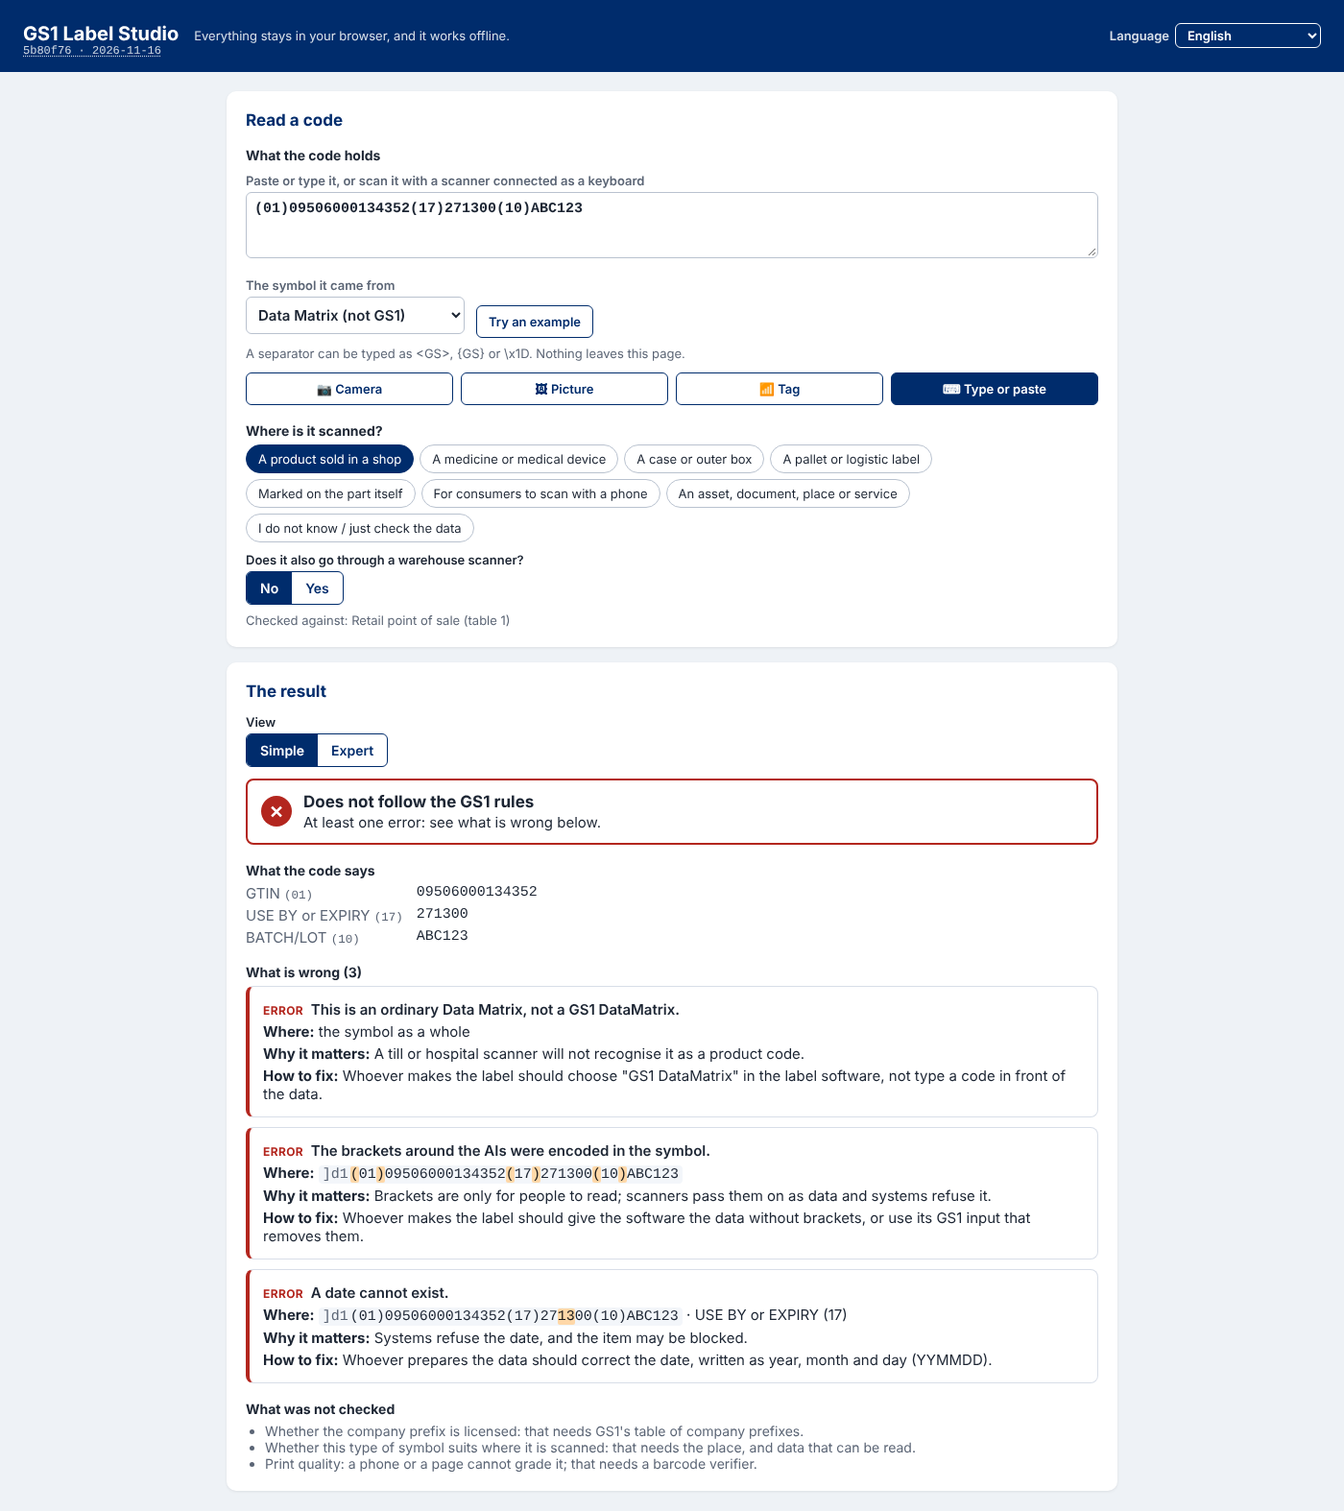
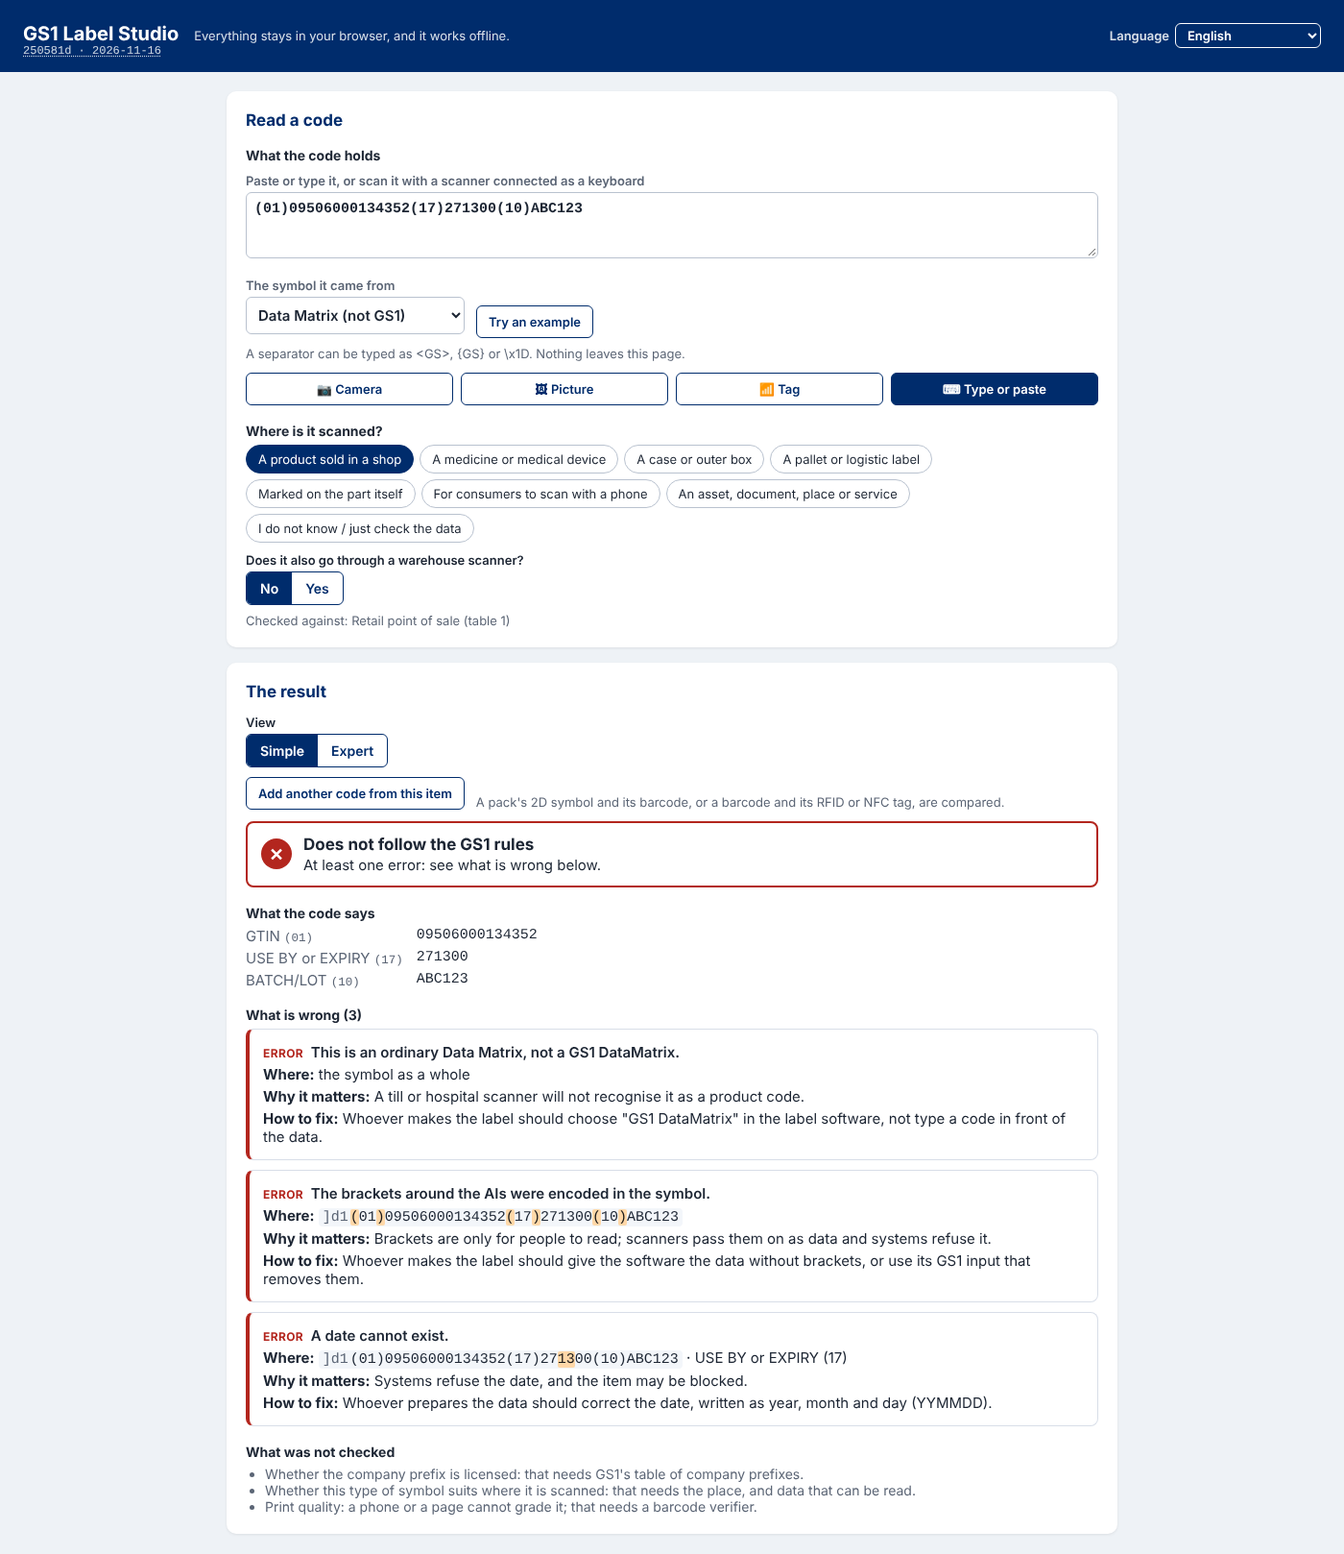
docs: the Check Studio's group in features, the user guide, ADR 0007, the backlog and the inventory (2,701 tests)
ADR 0007 decision 15 records how the next reading joins a group, the same code joining once, the kind guessed
until named, and the matrix as a card per detail on a phone (mock-up B of two). The user guide's step 10 and
check-group.png show the project's example 5.3; check.png, check-expert.png and check-picture.png gain the new
buttons.

Claude-Session: https://claude.ai/code/session_01AV1osqNtm8B74d9X8qxne4

diff --git a/apps/web/screenshots/guide.spec.ts b/apps/web/screenshots/guide.spec.ts
@@ -67,6 +67,22 @@ test("the Check Studio: a picture of three symbols, outlined and numbered", asyn
   await shot(studio.locator(".check-input"), "check-picture");
 });
 
+test("the Check Studio: the codes of one item, the matrix and a group fault", async ({ page }) => {
+  await page.goto("/#/check");
+  const studio = page.getByRole("main", { name: "Check Studio" });
+  await studio.getByRole("button", { name: "Type or paste", exact: true }).click();
+  await studio.getByRole("textbox").fill("]d201095060001343521727123110ABC123\u001d2100417");
+  await studio.getByRole("button", { name: "Add another code from this item" }).click();
+  await studio.getByRole("textbox").fill("]E09506000134352");
+  await studio.getByRole("button", { name: "Add this code to the item" }).click();
+  await studio.locator(".check-group").getByRole("button", { name: "Add another code from this item" }).click();
+  await studio.getByRole("button", { name: "Tag", exact: true }).click();
+  await studio.getByLabel(/Paste the EPC/).fill("30364433400d1ec0000001a1");
+  await studio.getByRole("button", { name: "Add this code to the item" }).click();
+  await expect(studio.locator('.check-group .finding[data-code="J7"]')).toBeVisible();
+  await shot(studio.locator(".check-group"), "check-group");
+});
+
 test("the editor at a glance", async ({ page }) => {
   await shot(page, "editor");
 });

diff --git a/docs/features.md b/docs/features.md
@@ -121,6 +121,7 @@ Which standard each follows: [conformance](conformance.md).
 | The Check Studio's result | Backlog 7.1 f, ADR 0007: at `#/check`, what a code holds pasted or typed (a scanner in keyboard mode), the symbol it came from and where it is scanned (eight places, two with a follow-up question) checked by the core's `check()`; the simple view gives the verdict with an icon and a word, what the code says with the data titles in the user's language, a card per finding (what, where with the code's text highlighted, why it matters, how to fix and who does it; *Make it right* opening the Barcode Studio with the data made right) and what was not checked; the expert view the reading, the bytes in hexadecimal and as text with three copy buttons, the element strings, the other syntaxes, the findings with their codes, sections and the engine's English message beside its translation, the context and the versions; the 77 faults told in plain words in six languages; the editor's Identify card links to the studio with its data | `1555ccc` | `check-result`: the worked example · `check-result`: choosing where the code is scanned · `check-result`: Make it right · `check-result`: the result in Portuguese · `check-result`: the editor's Identify card · `check-studio`: cover every fault · `check-studio`: maps each choice |
 | The Check Studio's camera and pictures | Backlog 7.1 g, ADR 0007 decision 13: three ways in under *Read a code* (Camera, Picture, Type or paste), a touch screen opening on the camera; the camera started on a press, its frames read by ZXing in a worker for their bytes and symbology identifier, the same symbol counted once in three seconds, a tone and a vibration, the stream stopped when the result opens, when the tab is hidden and when the studio is left, a torch and a zoom where the camera offers them, a refused, missing or busy camera said so with a picture offered instead; a picture chosen, taken, dropped or pasted, every symbol found outlined, numbered and coloured by its verdict, one chosen showing its result; no barcode found says what cannot be read here (GS1 DotCode, a Composite's 2D part) and *There is a code here that is not read* gives fault A9; a linear symbol read this way lists its Composite part as not checked | `a5050d7` | `check-camera`: on a touch screen · `check-camera`: the camera reads a code · `check-camera`: the camera stops · `check-camera`: a torch and a zoom · `check-camera`: a refused camera · `check-camera`: a picture of three symbols · `check-camera`: a picture with no barcode · `check-camera`: a picture pasted or dropped · `camera`: name a refused · `camera`: offer a torch · `camera`: counts once · `camera`: keep the decoder's bytes · `camera`: say when a linear symbol |
 | The Check Studio's scanner, NFC tags and EPCs | Backlog 7.1 h, ADR 0007 decision 14: a scanner in keyboard mode told from typing by its rhythm, its scan checked at once and marked as a scanner's, Ctrl+] as the group separator; the scanner's three faults named rather than blamed on the code: no symbology identifier sent (the symbol asked, and how to switch on AIM ID), the separator lost (the B3 card says the code may lack it or the scanner may drop it, with the set-up), another keyboard layout (AZERTY, QWERTZ, ABNT2, Spanish, Italian undone and offered: *Use this*); a fourth way in, *Tag*: an NFC tag read with Web NFC on Android and its every record listed, I3 and group G applied; without Web NFC what works instead said (an iPhone opens the link itself; an .ndef file opened) and no dead button; an RFID tag's EPC pasted or typed, a classic EPC read with the application's EPC tables, its key, serial and GS1 Digital Link URI shown | `fdce310` | `check-scan`: a scan with ]d2 · `check-scan`: a scan without its identifier · `check-scan`: Ctrl+] typed by hand · `check-scan`: a lost separator · `check-scan`: a scan typed on another keyboard layout · `check-scan`: an NFC tag held to the phone · `check-scan`: without Web NFC · `check-scan`: a pasted SGTIN-96 · `wedge`: takes keystrokes · `wedge`: is undone character by character · `wedge`: is offered when undoing · `wedge`: gives each record back · `wedge`: makes a message · `ndef`: marks the first record MB |
+| Several codes of one item in the Check Studio | Backlog 7.1 i, ADR 0007 decision 15: after any result, *Add another code from this item*; the next code read joins (by itself from the camera, a picture, an NFC tag or a scanner; on a press when typed or pasted), the same code never twice; every symbol of a picture as one item; the codes listed and numbered, each ticked into the check, left out or removed, the group checked again; the kind of group (consumer pack, case, logistic label, tag with its printed code) guessed until named; the group's verdict, the matrix of one row per detail and one column per code with the cells that differ marked (a card per detail on a phone), a card per group fault with the codes and detail it concerns, and the question whether two GTINs that differ in the indicator are a box and the product inside | `250581d` | `check-matrix`: a picture with an EAN-13 · `check-matrix`: the project's example 5.3 · `check-matrix`: two GTINs that differ · `group`: is guessed from the readings · `group`: is the same carrier · `group`: names the symbol · `group`: numbers the codes · `group`: say what differs |
 
 ## Exports and prepress
 

diff --git a/docs/test-inventory.md b/docs/test-inventory.md
@@ -1,6 +1,6 @@
 # Inventory of features from the tests
 
-Every test of the core's suite, of the web application's unit tests and of the editor's browser tests on 2026-11-16: 2,693 tests in 67 files. Each line is a test's name, a sentence that says what is true when it passes; together they say what the studio does and that it works. Each feature of [features.md](features.md) names the tests that prove it. Generated by `node scripts/inventory.mjs` from a complete run of the core's tests and the list of the browser tests ([ADR 0005](adr/0005-documentation-and-feature-inventory.md)); do not edit by hand.
+Every test of the core's suite, of the web application's unit tests and of the editor's browser tests on 2026-11-16: 2,701 tests in 69 files. Each line is a test's name, a sentence that says what is true when it passes; together they say what the studio does and that it works. Each feature of [features.md](features.md) names the tests that prove it. Generated by `node scripts/inventory.mjs` from a complete run of the core's tests and the list of the browser tests ([ADR 0005](adr/0005-documentation-and-feature-inventory.md)); do not edit by hand.
 
 Every unit test ran and passed in the run that wrote this file, the ZPL printed by Labelary included (`LABELARY=1`), but the documents' own test (`docs`), which checks this file and runs right after it is written. The browser tests are listed by Playwright and run by CI against the built application, on a desktop, a phone and a tablet held horizontally (a test about one layout is skipped in the others).
 
@@ -13,11 +13,11 @@ Every unit test ran and passed in the run that wrote this file, the ZPL printed 
 | [In bulk: rows, the report, sequences, generation](#in-bulk-rows-the-report-sequences-generation) | `batch`, `bulk`, `report`, `sequence`, `table` | 167 |
 | [Printers: the dot grid, profiles, ZPL, TSPL, EPL2, DPL, PPLA and PPLB](#printers-the-dot-grid-profiles-zpl-tspl-epl2-dpl-ppla-and-pplb) | `argox`, `dots`, `labelary`, `printer`, `printlangs`, `zpl` | 257 |
 | [RFID, NFC and digital signatures](#rfid-nfc-and-digital-signatures) | `epc`, `epcPlus`, `ndef`, `sign` | 1,288 |
-| [The Check Studio: a code read to be checked](#the-check-studio-a-code-read-to-be-checked) | `camera`, `check`, `check-group`, `check-studio`, `engine-map`, `faults`, `reading`, `wedge` | 178 |
+| [The Check Studio: a code read to be checked](#the-check-studio-a-code-read-to-be-checked) | `camera`, `check`, `check-group`, `check-studio`, `engine-map`, `faults`, `group`, `reading`, `wedge` | 183 |
 | [The work saved on one's own computer and opened again](#the-work-saved-on-ones-own-computer-and-opened-again) | `lastwork`, `opened`, `work` | 9 |
 | [The interface's languages: English, Brazilian Portuguese, Spanish, French, German, Italian](#the-interfaces-languages-english-brazilian-portuguese-spanish-french-german-italian) | `i18n` | 15 |
 | [The documents](#the-documents) | `docs` | 7 |
-| [The editor in the browser (Playwright, desktop, phone and tablet)](#the-editor-in-the-browser-playwright-desktop-phone-and-tablet) | `routes`, `tour`, `check-camera`, `check-result`, `check-scan`, `editor`, `layouts`, `studios` | 166 |
+| [The editor in the browser (Playwright, desktop, phone and tablet)](#the-editor-in-the-browser-playwright-desktop-phone-and-tablet) | `routes`, `tour`, `check-camera`, `check-matrix`, `check-result`, `check-scan`, `editor`, `layouts`, `studios` | 169 |
 
 ## Input and identification: the Syntax Engine, keys, qualifiers, attributes
 
@@ -2749,6 +2749,16 @@ Every unit test ran and passed in the run that wrote this file, the ZPL printed 
 
 </details>
 
+<details><summary><code>group</code> — 5 tests (<code>apps/web/test/group.test.ts</code>)</summary>
+
+- the kind of group › is guessed from the readings until the user names it
+- a code already in the group › is the same carrier, identifier and bytes
+- a column's name › names the symbol, or the tag and its scheme
+- a column's name › numbers the codes a finding concerns
+- a group finding's details › say what differs in plain words
+
+</details>
+
 <details><summary><code>reading</code> — 34 tests (<code>packages/core/test/reading.test.ts</code>)</summary>
 
 - what ZXing reads of each carrier (docs/conformance.md) › covers every symbology the studio makes
@@ -2897,6 +2907,14 @@ Every unit test ran and passed in the run that wrote this file, the ZPL printed 
 - a picture of three symbols: each outlined and numbered with its verdict, one chosen shows its result
 - a picture with no barcode says what cannot be read; There is a code here gives fault A9
 - a picture pasted or dropped on the studio is read
+
+</details>
+
+<details><summary><code>check-matrix</code> — 3 tests (<code>apps/web/e2e/check-matrix.spec.ts</code>)</summary>
+
+- a picture with an EAN-13 and a GS1 DataMatrix of different GTINs, checked as one item, gives J1; a code left out re-runs the checks
+- the project's example 5.3 built by the camera then a tag shows J7 on the differing cells; removing the tag re-runs the checks
+- two GTINs that differ in the indicator only ask whether one is the box's code, and a scanner's code joins by itself
 
 </details>
 

diff --git a/docs/developer-guide.md b/docs/developer-guide.md
@@ -332,6 +332,7 @@ that say what is true; together they are the [inventory of features](test-invent
 | `check-studio` | The Check Studio's result screen: the 77 faults told in plain words, one sentence each, and the places a code is scanned mapped to scanning environments | 3 |
 | `camera` | The Check Studio's camera and pictures without a camera: a refused, missing or busy camera named, the torch and zoom offered, the same symbol counted once in three seconds, the readings of a frame or a picture, the Composite part said to be left out, the symbols' names, a picture's size | 8 |
 | `wedge` | The Check Studio's scanner in keyboard mode and NFC tags without a screen: a scan told from typing by its rhythm, a keyboard layout's damage undone and offered (AZERTY, QWERTZ, ABNT2, Spanish, Italian), Web NFC's records made an NDEF message again and listed | 8 |
+| `group` | The Check Studio's group without a screen: the kind of group guessed from the readings (a tag, an SSCC, a GS1-128), a code already in the group, a column's name, the codes a finding concerns, what a group finding's details say | 5 |
 | `faults` | The Check Studio's catalogue: the project's 77 codes and no other, each with its severity, four texts and a source; the table of `docs/conformance.md`, 3.2 | 9 |
 | `reading` | The Check Studio's reading record: what ZXing reads of every carrier, measured and held to `docs/conformance.md`; a scanner's text, an NFC tag, an EPC | 34 |
 | `render` | PNG, PDF and zip against the resolver, PDFs drawn by pdftoppm | 20 |
@@ -361,6 +362,7 @@ that say what is true; together they are the [inventory of features](test-invent
 | `check-result` | the Check Studio's result in a browser: the worked example's verdict, cards and expert panels, the place re-running the checks, Make it right, Portuguese, the Identify card's link (Playwright) | 5 |
 | `check-camera` | the Check Studio's camera and pictures in a browser: the camera first on a touch screen, a code read and the camera stopped, hidden and shown, left; torch and zoom; refused and missing; a picture of three symbols outlined and numbered; no barcode and fault A9; pasted and dropped (Playwright, a canvas stream as the camera) | 8 |
 | `check-scan` | the Check Studio's scanner, NFC tags and EPCs in a browser: a scan with ]d2 and a separator, a scan without identifier and AIM ID, Ctrl+] by hand, a lost separator told as the scanner's, another keyboard layout, an NFC tag's records and I3, no Web NFC and an .ndef file, a pasted SGTIN-96 (Playwright, a stand-in NDEFReader) | 8 |
+| `check-matrix` | the Check Studio's group in a browser: a picture's two symbols of different GTINs checked as one item (J1, the cells marked, a code left out, one not joining twice), the project's example 5.3 by the camera then a tag (J7, a column's own result, the tag removed), the indicator question and a scanner's code joining by itself (Playwright, a canvas camera) | 3 |
 | `printlangs` | TSPL, EPL2 and DPL rendered by Labelize and read back; what they refuse | 130 |
 | `argox` | PPLA and PPLB as the DPL and EPL2 files Argox's manual allows, read back; what they refuse | 27 |
 

diff --git a/docs/user-guide.md b/docs/user-guide.md
@@ -75,7 +75,7 @@ another studio.
 
 ![The Check Studio with the worked example: the verdict, what the code says and three cards](images/guide/check.png)
 
-1. Open **Check Studio** on the start page (or `#/check`). Under **Read a code**, three buttons choose how the code
+1. Open **Check Studio** on the start page (or `#/check`). Under **Read a code**, four buttons choose how the code
    comes in: **Camera**, **Picture**, **Tag** and **Type or paste**. A phone or a tablet opens on the camera, a
    computer on the text.
 2. With **Camera**, press **Start the camera** and allow it when the browser asks; point it at the code, which is read
@@ -126,6 +126,22 @@ another studio.
    its translation, the context, and the versions that checked it.
 
 ![The expert view of the same result](images/guide/check-expert.png)
+
+10. To check several codes of one item together (a pack's 2D symbol and its EAN-13, a barcode and its RFID or NFC
+    tag), press **Add another code from this item** under the result, then read the next code in any way: a code read
+    by the camera, a picture, an NFC tag or a scanner joins by itself; a code typed or pasted joins on **Add this code
+    to the item**. A picture or a camera frame with several symbols offers **Check all … as one item**. **The codes of
+    this item** lists them, numbered; untick one to leave it out, or **Remove** it, and the group is checked again.
+    Under **What is this item?** say whether it is a consumer pack, a case, a logistic label or a tag with its printed
+    code (the studio guesses until you choose: the rules differ). The group's verdict comes first, then **What each code
+    says**: one row per detail and one column per code (on a phone, a card per detail), the values that disagree
+    marked; values are compared character by character, though a GTIN-13 padded to 14 digits is the same GTIN. Then a
+    card per group fault, such as different GTINs, an RFID tag whose serial number differs from the barcode's, or a
+    case's 2D symbol missing the GS1-128's data. When two GTINs differ only in their first digit, the studio asks whether
+    one is the box's code and the other the product's: then they are different items, to be checked one at a time.
+    **Its own result** shows one code's result below; **Check codes one at a time** ends the group.
+
+![The codes of one item: a GS1 DataMatrix, its EAN-13 and an RFID tag, the serial numbers marked where they differ](images/guide/check-group.png)
 
 In the editor, once the data is checked, **Check this in the Check Studio** under the Identify step opens the studio
 with that data, as a GS1 DataMatrix would carry it. Nothing you check leaves the page.

diff --git a/docs/adr/0007-check-studio.md b/docs/adr/0007-check-studio.md
@@ -119,6 +119,20 @@ to put it right.
    opens the tag's link by itself; an .ndef file) and shows no dead button. No browser reads UHF RFID: the EPC is pasted
    or typed by a reader in keyboard mode, and a classic EPC is read with the application's own EPC tables. The tag
    writer of 1.19 now shares the Web NFC code.
+15. **Several codes of one item: the next reading joins; the matrix is a table on a computer and a card per detail on
+   a phone** (7.1 i). After any result, *Add another code from this item* starts a group with that code and clears the
+   ways in; the next code read joins it by itself when it comes whole (the camera, a picture's symbol, an NFC tag, a
+   scanner's burst) and on a press when it is text being typed or pasted, which has no end the studio can see. The same
+   code read twice (the same carrier, identifier and bytes) joins once, so the camera seeing the first symbol again
+   adds nothing. Every symbol of a picture or a frame can be taken at once (the project's automatic group). A member can
+   be unticked, left listed but out of the check, or removed; either re-runs `checkGroup()`. The kind of group is
+   guessed (a tag beside a code, an SSCC in a GS1-128, a GS1-128 alone, else a consumer pack) until the user names it.
+   The matrix (`GroupMatrix.tsx`) heads each column with the code's number, name and verdict, and marks the cells of a
+   row that differs; a column's head opens that code's own result below. On a phone it is shown as a card per AI with
+   each code's value on its own line (mock-up B of two under the owner's rule; A, the same table with the AIs' column
+   fixed and the rest scrolling sideways, cut a GTIN in two on a phone 412 pixels wide). J1 between GTINs that differ
+   only in the indicator asks the project's question; *Yes* says they are different items and offers to check them one
+   at a time.
 
 ## 3. Consequences
 

diff --git a/README.md b/README.md
@@ -887,7 +887,11 @@ now. 6.10 (the assistant, 13 November) before 6.4 and 6.5, which follow from it.
   scan checked at once, Ctrl+] as the separator), the scanner's three faults named rather than blamed on the code (no
   identifier, the separator lost, another keyboard layout undone), and a fourth way in, Tag: NFC read with Web NFC on
   Android and every record listed, an .ndef file elsewhere with what works instead said, an RFID tag's EPC pasted or
-  typed*
+  typed; 7.1 i done the same day: several codes of one item on screen (mock-up B of two: on a phone, a card per detail),
+  *Add another code from this item* after any result (the next code read joins, a typed one on a press), every symbol
+  of a picture as one item, a code unticked or removed and the group checked again, the kind of group guessed until
+  the user names it, the matrix with the cells that differ marked, a card per group fault, and the question whether two
+  GTINs that differ in the indicator are a box and the product inside*
 
 
 ## Licence
